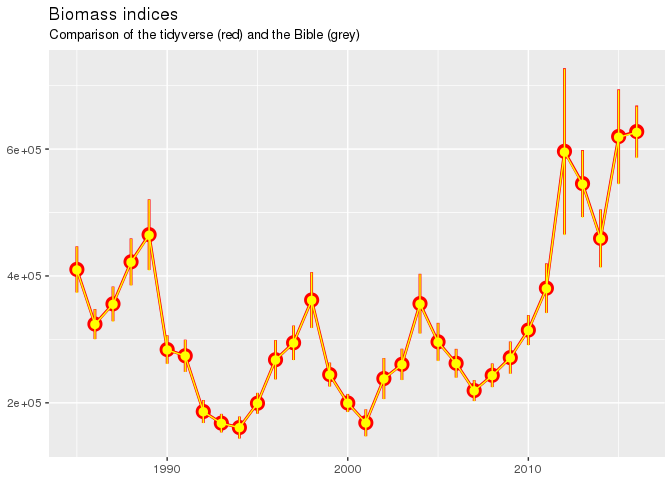
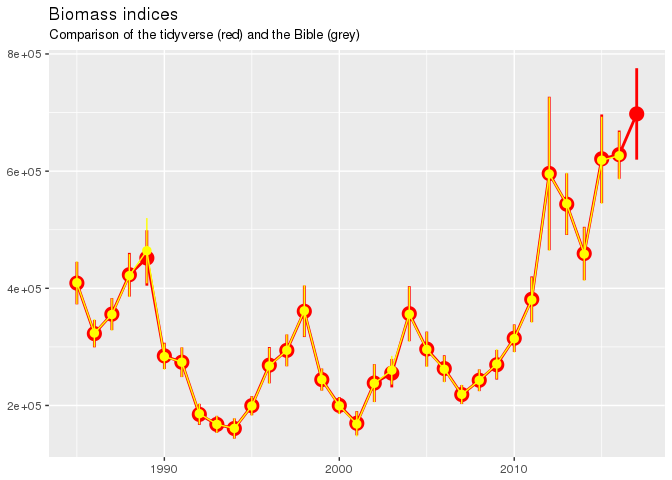
README update

diff --git a/README.md b/README.md
@@ -9,6 +9,7 @@ ___
 
 Have you wished for a painless way to generate survey indices. Give the following a try.
 
+
 ## Needed packages
 ___
 
@@ -28,6 +29,7 @@ ___
 library(tidyverse)
 library(fjolst)    # for the time being
 library(pax)
+attach("/net/hafkaldi/export/u2/reikn/R/SurveyWork/SMB/Stations.rdata")
 ```
 
 ## Length based indices
@@ -40,10 +42,9 @@ OK, here you have to have some background knowledge. But we select "all" SMB sta
 
 ```r
 Station <- 
-  husky::STODVAR %>% 
-  bind_rows() %>% 
+  STODVAR.all %>% 
   filter(tognumer %in% 1:39) %>% 
-  select(id = synis.id, year = ar, towlength = toglengd, strata = newstrata) %>% 
+  select(id = synis.id, year = ar, towlength = toglengd, strata = oldstrata) %>% 
   mutate(towlength = pax:::trim_towlength(towlength),
          mult = 1) %>% 
   arrange(id)
@@ -125,13 +126,14 @@ tidy_fixed %>%
 ```
 
 ```
-##       year            cb              cb2              diff       
-##  Min.   :1985   Min.   :161148   Min.   :160877   Min.   :0.1020  
-##  1st Qu.:1993   1st Qu.:242193   1st Qu.:241671   1st Qu.:0.1872  
-##  Median :2000   Median :289394   Median :288828   Median :0.2158  
-##  Mean   :2000   Mean   :327553   Mean   :326905   Mean   :0.1977  
-##  3rd Qu.:2008   3rd Qu.:388204   3rd Qu.:387380   3rd Qu.:0.2161  
-##  Max.   :2016   Max.   :627611   Max.   :626306   Max.   :0.2161
+##       year            cb              cb2              diff         
+##  Min.   :1985   Min.   :160666   Min.   :160877   Min.   :-2.68817  
+##  1st Qu.:1993   1st Qu.:243030   1st Qu.:241671   1st Qu.:-0.14274  
+##  Median :2001   Median :294071   Median :288828   Median : 0.16847  
+##  Mean   :2001   Mean   :337992   Mean   :326905   Mean   :-0.03683  
+##  3rd Qu.:2009   3rd Qu.:408901   3rd Qu.:387380   3rd Qu.: 0.31040  
+##  Max.   :2017   Max.   :697694   Max.   :626306   Max.   : 0.80048  
+##                                  NA's   :1        NA's   :1
 ```
 
 So the tidyverse is 0.2% higher than the mri - some may want to dig into that.
@@ -163,14 +165,15 @@ res$aggr %>%
 
 
 ```r
-spe88 <- calc_length_indices(Station, Stratas, 88, lwcoeff = c(0.01, 3))
+spe88 <-  calc_length_indices(Station, Stratas,  88, lwcoeff = c(0.01, 3))
 spe562 <- calc_length_indices(Station, Stratas, 562, lwcoeff = c(0.01, 3))
 spe150 <- calc_length_indices(Station, Stratas, 150, lwcoeff = c(0.01, 3))
-spe71 <- calc_length_indices(Station, Stratas, 71, lwcoeff = c(0.01, 3))
-spe88$aggr %>% mutate(Species = "Rauða sævesla") %>% 
+spe71 <-  calc_length_indices(Station, Stratas,  71, lwcoeff = c(0.01, 3))
+spe88$aggr %>% 
+  mutate(Species = "Rauða sævesla") %>% 
   bind_rows(spe562$aggr %>% mutate(Species = "Ljóskjafta")) %>% 
   bind_rows(spe150$aggr %>% mutate(Species = "Svartgóma")) %>% 
-  bind_rows(spe71$aggr %>% mutate(Species = "Ískóð")) %>% 
+  bind_rows(spe71$aggr %>%  mutate(Species = "Ískóð")) %>% 
   filter(length == 140) %>% 
   select(year, Species, cn, cn.cv) %>% 
   ggplot(aes(year, cn)) +
@@ -186,7 +189,7 @@ spe88$aggr %>% mutate(Species = "Rauða sævesla") %>%
 ```
 
 ```
-## Warning: Removed 58 rows containing missing values (geom_pointrange).
+## Warning: Removed 57 rows containing missing values (geom_pointrange).
 ```
 
 ![](README_files/figure-html/plot3-1.png)<!-- -->
@@ -279,15 +282,15 @@ x$aggr %>%
 ## 3  1987  3.66  28.32 104.66  83.00 21.38 12.75 12.95  2.80 0.99 0.42 0.44
 ## 4  1988  3.45   7.07  72.67 103.77 69.68  8.39  6.45  7.22 0.67 0.28 0.12
 ## 5  1989  4.05  16.43  22.10  80.04 74.32 39.26  4.85  1.70 1.41 0.27 0.19
-## 6  1990  5.57  11.82  26.16  14.20 28.04 35.24 16.77  1.75 0.58 0.48 0.13
+## 6  1990  5.57  11.82  26.16  14.20 28.04 35.24 16.77  1.75 0.58 0.47 0.12
 ## 7  1991  3.95  16.06  18.24  30.28 15.53 19.03 22.47  4.91 0.94 0.31 0.22
-## 8  1992  0.72  16.94  33.67  18.97 16.71  6.91  6.35  5.79 1.49 0.23 0.03
+## 8  1992  0.72  16.94  33.65  18.96 16.71  6.90  6.35  5.78 1.48 0.23 0.03
 ## 9  1993  3.57   4.78  30.97  36.84 13.55 10.64  2.43  2.04 1.40 0.41 0.13
 ## 10 1994 14.44  15.02   9.07  26.97 22.48  6.09  3.97  0.80 0.54 0.51 0.18
 ## 11 1995  1.08  29.37  24.85   9.08 24.57 18.48  4.03  1.92 0.38 0.19 0.24
 ## 12 1996  3.73   5.45  42.70  29.49 12.91 14.66 14.05  3.82 1.04 0.17 0.05
 ## 13 1997  1.18  22.23  13.53  56.28 29.22  9.54  8.81  6.71 0.58 0.27 0.15
-## 14 1998  8.08   5.37  30.04  16.13 62.23 28.92  6.65  5.27 3.05 0.68 0.19
+## 14 1998  8.08   5.34  30.06  16.16 62.24 28.92  6.65  5.27 3.05 0.68 0.16
 ## 15 1999  7.41  33.05   7.03  42.32 13.11 23.72 11.11  2.34 1.29 0.75 0.18
 ## 16 2000 18.92  27.67  55.12   6.92 30.08  8.41  8.20  4.14 0.49 0.28 0.09
 ## 17 2001 12.30  23.50  36.49  38.17  4.86 15.26  3.34  2.01 0.76 0.23 0.11
@@ -318,54 +321,55 @@ devtools::session_info()
 
 ```
 ##  setting  value                       
-##  version  R version 3.3.1 (2016-06-21)
+##  version  R version 3.3.2 (2016-10-31)
 ##  system   x86_64, linux-gnu           
 ##  ui       X11                         
 ##  language (EN)                        
 ##  collate  is_IS.UTF-8                 
 ##  tz       Atlantic/Reykjavik          
-##  date     2016-12-16                  
+##  date     2017-05-24                  
 ## 
-##  package    * version    date       source        
-##  assertthat   0.1        2013-12-06 CRAN (R 3.0.2)
-##  backports    1.0.4      2016-10-24 cran (@1.0.4) 
-##  colorspace   1.2-6      2015-03-11 CRAN (R 3.2.0)
-##  DBI          0.5-1      2016-09-10 cran (@0.5-1) 
-##  devtools     1.12.0     2016-12-05 CRAN (R 3.3.1)
-##  digest       0.6.10     2016-08-02 cran (@0.6.10)
-##  dplyr      * 0.5.0      2016-06-24 CRAN (R 3.3.1)
-##  evaluate     0.10       2016-10-11 cran (@0.10)  
-##  fjolst     * 1.0        2016-12-01 local         
-##  geo        * 1.4-3      2015-07-03 CRAN (R 3.3.1)
-##  ggplot2    * 2.2.0      2016-11-11 CRAN (R 3.3.1)
-##  gtable       0.2.0      2016-02-26 cran (@0.2.0) 
-##  htmltools    0.3.5      2016-03-21 CRAN (R 3.3.0)
-##  husky        0.0.3.9000 2016-12-14 local         
-##  knitr        1.15.1     2016-11-22 cran (@1.15.1)
-##  labeling     0.3        2014-08-23 CRAN (R 3.2.0)
-##  lazyeval     0.2.0      2016-06-12 cran (@0.2.0) 
-##  magrittr     1.5        2014-11-22 CRAN (R 3.1.2)
-##  mapdata    * 2.2-6      2016-01-14 cran (@2.2-6) 
-##  maps       * 3.1.1      2016-07-27 cran (@3.1.1) 
-##  memoise      1.0.0      2016-01-29 CRAN (R 3.3.0)
-##  munsell      0.4.3      2016-02-13 cran (@0.4.3) 
-##  ora          2.0-1      2014-04-10 CRAN (R 3.1.2)
-##  pax        * 0.0.1.9000 2016-12-16 local         
-##  plyr         1.8.4      2016-06-08 cran (@1.8.4) 
-##  purrr      * 0.2.2      2016-06-18 cran (@0.2.2) 
-##  R6           2.2.0      2016-10-05 cran (@2.2.0) 
-##  Rcpp         0.12.8     2016-11-17 cran (@0.12.8)
-##  readr      * 1.0.0      2016-08-03 CRAN (R 3.3.1)
-##  rmarkdown    1.2        2016-11-21 cran (@1.2)   
-##  ROracle      1.2-2      2016-02-17 CRAN (R 3.3.0)
-##  rprojroot    1.1        2016-10-29 cran (@1.1)   
-##  scales       0.4.1      2016-11-09 CRAN (R 3.3.1)
-##  stringi      1.1.1      2016-05-27 cran (@1.1.1) 
-##  stringr      1.1.0      2016-08-19 CRAN (R 3.3.0)
-##  tibble     * 1.2        2016-08-26 CRAN (R 3.3.1)
-##  tidyr      * 0.6.0      2016-08-12 cran (@0.6.0) 
-##  tidyverse  * 1.0.0      2016-09-09 CRAN (R 3.3.1)
-##  withr        1.0.2      2016-06-20 CRAN (R 3.3.0)
+##  package    * version    date       source                         
+##  assertthat   0.2.0      2017-04-11 cran (@0.2.0)                  
+##  backports    1.0.4      2016-10-24 cran (@1.0.4)                  
+##  colorspace   1.2-6      2015-03-11 CRAN (R 3.2.0)                 
+##  DBI          0.6        2017-03-09 cran (@0.6)                    
+##  devtools     1.12.0     2016-12-05 CRAN (R 3.3.1)                 
+##  digest       0.6.12     2017-01-27 CRAN (R 3.3.2)                 
+##  dplyr      * 0.5.0      2016-06-24 CRAN (R 3.3.1)                 
+##  evaluate     0.10       2016-10-11 cran (@0.10)                   
+##  fjolst     * 1.0        2017-05-14 local                          
+##  geo        * 1.4-3      2015-07-03 CRAN (R 3.3.1)                 
+##  ggplot2    * 2.2.1.9000 2017-04-12 Github (hadley/ggplot2@f4398b6)
+##  gtable       0.2.0      2016-02-26 cran (@0.2.0)                  
+##  htmltools    0.3.5      2016-03-21 CRAN (R 3.3.0)                 
+##  husky        0.0.3.9000 2017-05-24 Github (fishvice/husky@f0b9fb9)
+##  knitr        1.15.1     2016-11-22 cran (@1.15.1)                 
+##  labeling     0.3        2014-08-23 CRAN (R 3.2.0)                 
+##  lazyeval     0.2.0      2016-06-12 cran (@0.2.0)                  
+##  magrittr     1.5        2014-11-22 CRAN (R 3.1.2)                 
+##  mapdata    * 2.2-6      2016-01-14 cran (@2.2-6)                  
+##  maps       * 3.1.1      2016-07-27 cran (@3.1.1)                  
+##  memoise      1.0.0      2016-01-29 CRAN (R 3.3.0)                 
+##  munsell      0.4.3      2016-02-13 cran (@0.4.3)                  
+##  ora          2.0-1      2014-04-10 CRAN (R 3.1.2)                 
+##  pax        * 0.0.1.9000 2017-05-24 Github (fishvice/pax@5a9af82)  
+##  plyr         1.8.4      2016-06-08 cran (@1.8.4)                  
+##  purrr      * 0.2.2.2    2017-05-11 cran (@0.2.2.2)                
+##  R6           2.2.0      2016-10-05 cran (@2.2.0)                  
+##  Rcpp         0.12.11    2017-05-22 cran (@0.12.11)                
+##  readr      * 1.0.0      2016-08-03 CRAN (R 3.3.1)                 
+##  rlang        0.1.1      2017-05-18 cran (@0.1.1)                  
+##  rmarkdown    1.5        2017-04-26 CRAN (R 3.3.2)                 
+##  ROracle      1.2-2      2016-02-17 CRAN (R 3.3.0)                 
+##  rprojroot    1.1        2016-10-29 cran (@1.1)                    
+##  scales       0.4.1      2016-11-09 CRAN (R 3.3.1)                 
+##  stringi      1.1.5      2017-04-07 CRAN (R 3.3.2)                 
+##  stringr      1.2.0      2017-02-18 cran (@1.2.0)                  
+##  tibble     * 1.3.1      2017-05-17 CRAN (R 3.3.2)                 
+##  tidyr      * 0.6.3      2017-05-15 cran (@0.6.3)                  
+##  tidyverse  * 1.0.0      2016-09-09 CRAN (R 3.3.1)                 
+##  withr        1.0.2      2016-06-20 CRAN (R 3.3.0)                 
 ##  yaml         2.1.14     2016-11-12 cran (@2.1.14)
 ```
 
